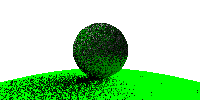
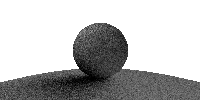
fixed diffuse shading

diff --git a/main.go b/main.go
@@ -7,12 +7,14 @@ import (
 	"image/png"
 	"log"
 	"os"
+	"math"
 	"github.com/neverix/pathcaster/lib"
 )
 
 const (
 	width = 200
 	height = 100
+	samples = 5
 )
 
 func main() {
@@ -33,19 +35,34 @@ func main() {
 
 	for x := 0; x < width; x++ {
 		for y := 0; y < height; y++ {
-			ray := &lib.Ray{
-				Position: lib.Vec{
-					X: 0,
-					Y: 0,
-					Z: 0},
-				Direction: lib.Vec{
-					X: float64(x) / float64(width) * 
-						float64(width) / float64(height) -
-						float64(width) / float64(height) / 2.0,
-					Y: float64(y) / float64(height) - 0.5,
-					Z: 1}}
-			hit := surfaces.Hit(ray)
-			canvas.Set(x, y, hit.Material.Render(hit, &surfaces))
+			var rTotal float64
+			var gTotal float64
+			var bTotal float64
+			for i := 0; i < samples; i++ {
+				ray := &lib.Ray{
+					Position: lib.Vec{
+						X: 0,
+						Y: 0,
+						Z: 0},
+					Direction: lib.Vec{
+						X: float64(x) / float64(width) * 
+							float64(width) / float64(height) -
+							float64(width) / float64(height) / 2.0,
+						Y: float64(y) / float64(height) - 0.5,
+						Z: 1}}
+				hit := surfaces.Hit(ray, 0.001, math.MaxFloat64)
+				color := hit.Material.Render(hit, &surfaces)
+				r, g, b, _ := color.RGBA()
+				rTotal += math.Sqrt(float64(r) / 65535.0) * 255.0
+				gTotal += math.Sqrt(float64(g) / 65535.0) * 255.0
+				bTotal += math.Sqrt(float64(b) / 65535.0) * 255.0
+			}
+			color := color.RGBA{
+				uint8(rTotal / samples),
+				uint8(gTotal / samples),
+				uint8(bTotal / samples),
+				255}
+			canvas.Set(x, y, color)
 		}
 	}
 

diff --git a/lib/material.go b/lib/material.go
@@ -1,6 +1,9 @@
 package lib
 
-import "image/color"
+import (
+	"image/color"
+	"math"
+)
 
 // Material is a data type for materials
 type Material interface {
@@ -25,12 +28,11 @@ type DiffuseMaterial struct {
 // Render is an diffuse material renderer
 func (d *DiffuseMaterial) Render(h *Hit, w Surface) color.Color {
 	target := h.Position.Add(h.Normal).Add(randInUnitSphere())
-	hit := w.Hit(&Ray{h.Position, target.Sub(h.Position)})
+	hit := w.Hit(&Ray{h.Position, target.Sub(h.Position)}, 0.001, math.MaxFloat64)
 	r, g, b, _ := hit.Material.Render(hit, w).RGBA()
-	dr, dg, db, _ := d.Color.RGBA()
 	return color.RGBA{
-		uint8(float64(r) / 65535.0 * float64(dr) / 65535.0 * 255.0),
-		uint8(float64(g) / 65535.0 * float64(dg) / 65535.0 * 255.0),
-		uint8(float64(b) / 65535.0 * float64(db) / 65535.0 * 255.0),
+		uint8(float64(r) / 65535.0 * 255.0 * 0.5),
+		uint8(float64(g) / 65535.0 * 255.0 * 0.5),
+		uint8(float64(b) / 65535.0 * 255.0 * 0.5),
 		255}
 }

diff --git a/lib/surface.go b/lib/surface.go
@@ -2,21 +2,21 @@ package lib
 
 // Surface is an interface for any hittable surface
 type Surface interface {
-	Hit(r *Ray) *Hit
+	Hit(r *Ray, tMin float64, tMax float64) *Hit
 }
 
 // SurfaceList is a list of surfaces
 type SurfaceList []Surface
 
 // Hit is an implementation of the hit function for surface lists
-func (l SurfaceList) Hit(r *Ray) *Hit {
+func (l SurfaceList) Hit(r *Ray, tMin float64, tMax float64) *Hit {
 	minDistanceHit := new(Hit)
-	var minDistance float64 = -1
+	minDistance := tMax
 	for _, surf := range l {
-		hit := surf.Hit(r)
+		hit := surf.Hit(r, tMin, minDistance)
 		if hit != nil {
 			distance := hit.Position.Sub(r.Position).Mag()
-			if(minDistance == -1 || distance < minDistance) {
+			if(distance < minDistance) {
 				minDistance = distance
 				minDistanceHit = hit
 			}

diff --git a/lib/sphere.go b/lib/sphere.go
@@ -13,7 +13,7 @@ type Sphere struct {
 }
 
 // Hit is an implementation of the hit method for a sphere
-func (s *Sphere) Hit(r *Ray) *Hit {
+func (s *Sphere) Hit(r *Ray, tMin float64, tMax float64) *Hit {
 	offset := r.Position.Sub(s.Position)
 	a := r.Direction.Dot(r.Direction)
 	b := offset.Dot(r.Direction) * 2

diff --git a/lib/background.go b/lib/background.go
@@ -11,7 +11,7 @@ type Background struct {
 }
 
 // Hit is an implementation of the hit method for backgrounds
-func (b *Background) Hit(r *Ray) *Hit {
+func (b *Background) Hit(r *Ray, tMin float64, tMax float64) *Hit {
 	return &Hit{
 		r.AtPosition(math.Pow(2.0, 64)),
 		r.Direction.Neg(),
